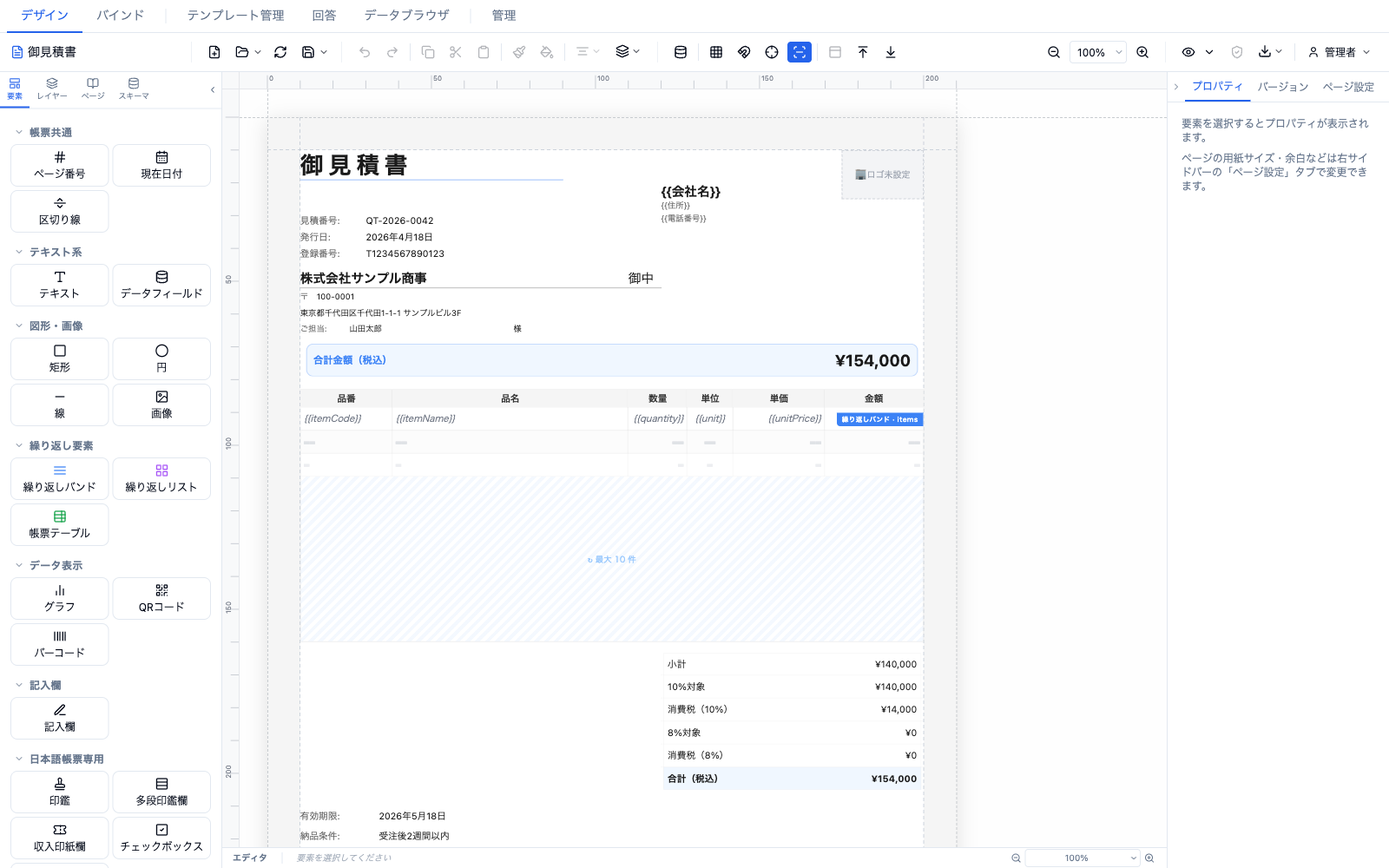
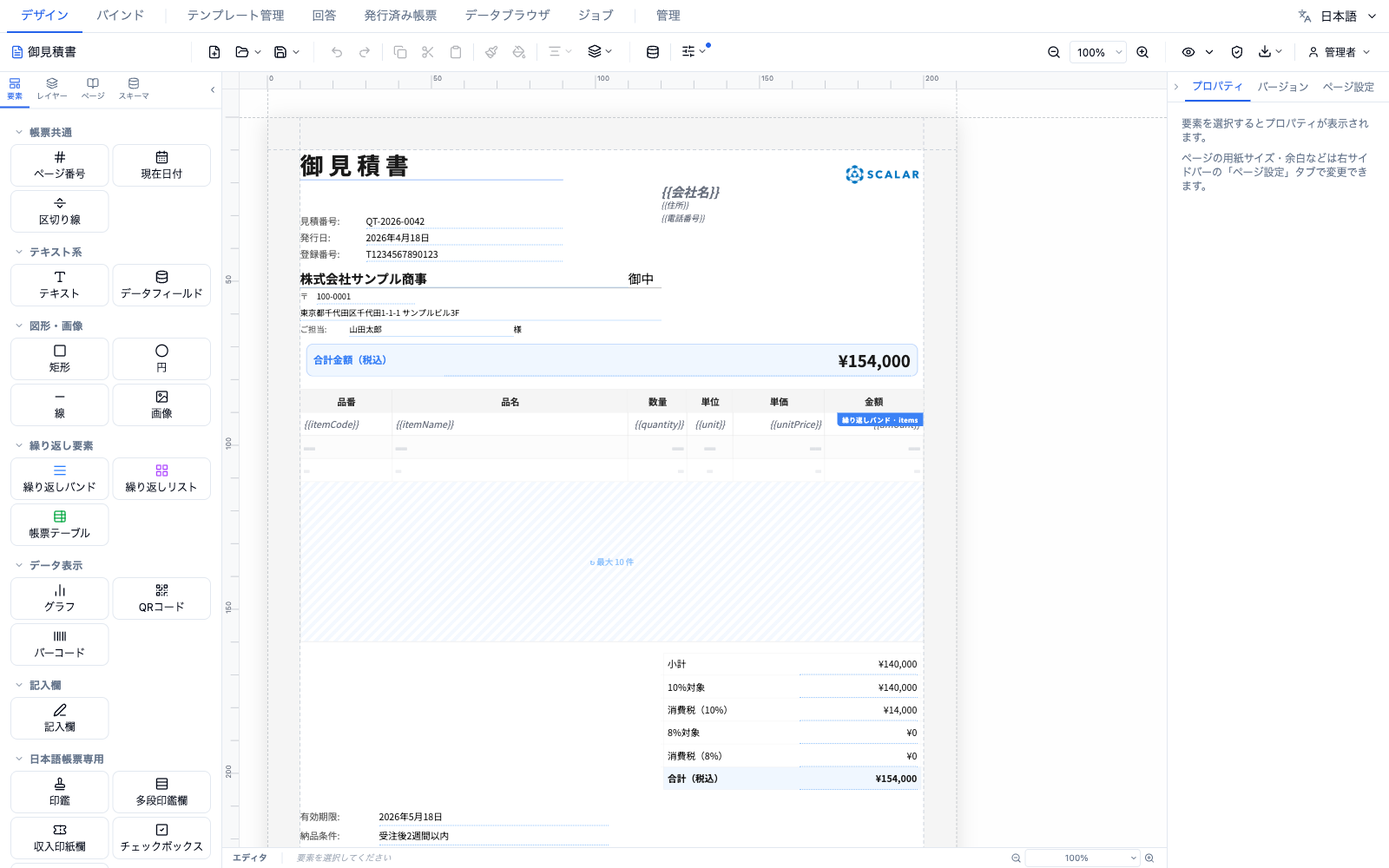
docs: v1.1.0 に合わせてドキュメントと画面ショットを最新化
テキスト
- README / docs: ScalarDB 3.19、特徴に Keycloak（OIDC）併用、CLI のエージェント向け
  コマンドとチームスキル、環境変数表（抜粋注記・OIDC/LOG 系追加）、プロジェクト構造
- user-manual: 管理タブ 6 セクション・アカウント設定・パレット分類・商品マスター列名・
  各ラベルを現行 UI に合わせて修正。#498 のツールバー表示（ドット/バッジ）を反映。
  §11 に「Keycloak（OIDC）でログインする」を新設（連携フロー・認証列・制約・SSO ログアウト）
- architecture / design / setup / observability / license-audit / security-audit /
  job-infrastructure / CLAUDE.md / scalardb.properties.example / CLI README:
  版数（ScalarDB 3.19・Tailwind 4・react-router 8・Storybook 10・logback 1.6.3）、
  14 スライス、before-filter の解決順（JWT 形は OIDC のみ・rpat_ は PAT のみ）、
  AUTH_MODE fail-closed、OIDC 経路の詳細、CI 4 ジョブ、CLI コマンド一覧、
  #502 の logback 構成、残課題の解消状況
- main から残っていたアンカー切れ 2 件を修正、AuthMode の Javadoc を fail-closed に

画面ショット（Playwright、1512×800 / README は 1600×1000）
- ツールバーが写る 01〜06・designer.png・live-preview.png を #498 後の UI で撮り直し
- walkthrough.gif を新 PNG から再生成（8 フレーム、1000px、1.5MB → 0.57MB）
- 新規: 13-login-keycloak / 14-account-link / 15-user-management（OIDC 併用時の画面）

Claude-Session: https://claude.ai/code/session_01MzdcF71BaucU7NvbkiCSD4

diff --git a/server/src/main/java/com/report/server/auth/AuthMode.java b/server/src/main/java/com/report/server/auth/AuthMode.java
@@ -14,10 +14,11 @@ import org.slf4j.LoggerFactory;
  *   <li>{@code local} — id / password only. OIDC endpoints are not registered and Keycloak Bearer
  *       tokens are ignored even if {@code OIDC_*} variables are present.
  *   <li>{@code oidc} — Keycloak only. Password login answers 403 {@code LOCAL_LOGIN_DISABLED} and
- *       the login modal hides the id / password form. Requires a complete {@code OIDC_*}
- *       configuration; otherwise the server falls back to {@code local} with an error log so nobody
- *       is locked out.
- *   <li>{@code both} — Keycloak and id / password side by side (same fallback rule).
+ *       the login modal hides the id / password form. Requires {@code OIDC_ISSUER} and {@code
+ *       OIDC_CLIENT_ID}; when either is missing {@link #resolve} throws {@link
+ *       IllegalStateException} and the server refuses to start (fail-closed) rather than silently
+ *       falling back to password login.
+ *   <li>{@code both} — Keycloak and id / password side by side (same fail-closed rule).
  * </ul>
  *
  * <p>When {@code AUTH_MODE} is unset the mode is inferred: {@code both} if {@code OIDC_ISSUER} is

diff --git a/docs/setup.md b/docs/setup.md
@@ -4,7 +4,7 @@ Report Studio を動かすための手順をまとめます。用途に応じて
 
 - **とにかく試したい** → [Docker でのクイックスタート](#docker-でのクイックスタート)（Node.js / JDK 不要）
 - **開発・改修したい** → [ローカルセットアップ](#ローカルセットアップ)
-- **本番運用したい** → [本番構成](#本番構成)＋[環境変数](#環境変数)
+- **本番運用したい** → [本番構成](#本番任意の-jdbc-データベース)＋[環境変数](#環境変数)
 
 ---
 
@@ -158,7 +158,7 @@ scalar.db.transaction_manager=jdbc
 
 `scalar.db.contact_points` を対象 DB の JDBC URL に変更し、`scalar.db.username` / `scalar.db.password` を設定します。
 
-本アプリはすべてのデータアクセスを ScalarDB（3.17）経由で行うため、接続先は **ScalarDB が対応するデータベース**に限られます。本アプリは `scalar.db.storage=jdbc`（JDBC ストレージ + JDBC トランザクションマネージャ）で構築・検証しているため、実運用で選べるのは **ScalarDB の JDBC アダプタが対応する関係データベース**です。
+本アプリはすべてのデータアクセスを ScalarDB（3.19）経由で行うため、接続先は **ScalarDB が対応するデータベース**に限られます。本アプリは `scalar.db.storage=jdbc`（JDBC ストレージ + JDBC トランザクションマネージャ）で構築・検証しているため、実運用で選べるのは **ScalarDB の JDBC アダプタが対応する関係データベース**です。
 
 | データベース | 備考 |
 |--------------|------|
@@ -191,7 +191,7 @@ scalar.db.transaction_manager=jdbc
 | `SCALARDB_PASSWORD` | （空） | 接続パスワード |
 | `SCALARDB_TX_MANAGER` | `jdbc` | トランザクションマネージャ |
 | `SCALARDB_POOL_MIN_IDLE` | `1` | JDBC 接続プール min_idle（#274。properties ファイル使用時もファイル値を上書き） |
-| `SCALARDB_POOL_MAX_IDLE` | `5` | JDBC 接続プール max_idle（同上。ScalarDB 3.18 では本プロパティは無視され警告が出ます） |
+| `SCALARDB_POOL_MAX_IDLE` | `5` | JDBC 接続プール max_idle（同上。同梱の ScalarDB 3.19 では本プロパティは無視され警告が出ます） |
 | `SCALARDB_POOL_MAX_TOTAL` | `10` | JDBC 接続プール max_total（同上） |
 
 ---
@@ -212,7 +212,7 @@ scalar.db.transaction_manager=jdbc
 | `OIDC_ADMIN_ROLE` | `report-studio-admin` | `admin` にマッピングする IdP ロール |
 | `OIDC_USER_ROLE` | （未設定） | 設定するとこのロールを持つユーザーだけがログインできる（未設定なら認証済み全員が `user`） |
 | `OIDC_ROLE_CLAIM` | `realm_access.roles` | ロール配列を読むクレームのドットパス（クライアントロールなら `resource_access.<client>.roles`） |
-| `OIDC_LINK_LOCAL_USERS` | `false` | `true` で、ローカルアカウントでログイン済みのユーザーがアカウント設定から自分の Keycloak ID を**明示的に**連携できる。ユーザー ID が一致するだけの暗黙リンクは行わない（常に `user_conflict` で拒否） |
+| `OIDC_LINK_LOCAL_USERS` | `false` | `true` で、ローカルアカウントでログイン済みのユーザーがアカウント設定から自分の Keycloak ID を**明示的に**連携できる。ユーザー ID が一致するだけの暗黙リンクは行わない（常に `account_unavailable` で拒否） |
 | `OIDC_SCOPES` | `openid profile email` | 要求するスコープ |
 | `OIDC_PROVIDER_NAME` | `Keycloak` | UI に表示する IdP 名（「〜 でログイン」ボタン、認証列、連携画面）。Entra ID / Auth0 などでも使う場合に変更 |
 | `AUTH_MODE` | `local`（`OIDC_ISSUER` 設定時は `both`） | 提供するログイン方式。`local` = ID/パスワードのみ（`OIDC_*` があっても OIDC は無効）、`oidc` = Keycloak のみ（パスワードログインは 403、モーダルのフォームも非表示）、`both` = 併用。`oidc`/`both` は `OIDC_ISSUER`・`OIDC_CLIENT_ID` が必須で、不足していると**起動に失敗**する（設定ミスで黙ってパスワードログインに戻らない）。`keycloak` は `oidc` の別名。不明な値はエラーログを出して推定値（未設定時と同じ）になる |
@@ -245,7 +245,7 @@ scalar.db.transaction_manager=jdbc
 ### 仕組み
 
 - **ブラウザ**: ログインモーダルの「Keycloak でログイン」→ `GET /api/v1/auth/oidc/login`（Authorization Code + PKCE、state/nonce を検証）→ `GET /api/v1/auth/oidc/callback` で ID トークンを JWKS で検証し、**通常の Cookie セッション**を発行します。SPA はトークンを扱いません。
-- **API / CLI**: Keycloak 発行のアクセストークンを `Authorization: Bearer <JWT>` で送ると認証されます（PAT `rpat_…` で見つからない場合に JWT として検証）。Bearer で解決できるのは**既にアカウントがあるユーザーだけ**です。アクセストークン単体ではアカウントの自動作成もローカルアカウントへの紐付けも行わないため、先に一度ブラウザで Keycloak ログイン（または下記の明示連携）を済ませてください。ID トークン（`typ: ID`）やリフレッシュトークンは Bearer として受け付けません。
+- **API / CLI**: Keycloak 発行のアクセストークンを `Authorization: Bearer <JWT>` で送ると認証されます（JWT 形状の Bearer は OIDC 検証のみに回り、PAT ストアは引きません。不透明な `rpat_…` は PAT としてのみ解決します）。Bearer で解決できるのは**既にアカウントがあるユーザーだけ**です。アクセストークン単体ではアカウントの自動作成もローカルアカウントへの紐付けも行わないため、先に一度ブラウザで Keycloak ログイン（または下記の明示連携）を済ませてください。ID トークン（`typ: ID`）やリフレッシュトークンは Bearer として受け付けません。
 - **ユーザー**: 初回ログイン時に `provider=oidc`・パスワードなしのアカウントを自動作成します（`userId` は `preferred_username`、IdP の `sub` を `externalId` として保持）。ロールは `OIDC_ROLE_CLAIM` のロール配列から `OIDC_ADMIN_ROLE` → `admin`、それ以外 → `user` にマッピングし、ログインのたびに IdP の値で更新します。Keycloak 既定の「realm roles」マッパーは `realm_access` を**アクセストークンにしか**入れないため、コールバックでは ID トークンと一緒に返るアクセストークンも検証してロール元にします（Keycloak 側で ID トークンにロールを追加する設定は不要です）。
 - **衝突と連携**: 同じ `userId` のローカルアカウントが既にある場合、Keycloak ログインは常に拒否します（`?oidc_error=account_unavailable`。ローカルのユーザー ID の存在を IdP ユーザーに知らせないため、理由はサーバログにのみ出ます）。ユーザー名が一致するだけでローカルアカウントを乗っ取れないようにするためです。既存のローカルアカウントで Keycloak も使いたい場合は `OIDC_LINK_LOCAL_USERS=true` にし、**ローカルでログインした状態で**アカウント設定の「Keycloak アカウントと連携」から連携します（`GET /api/v1/auth/oidc/login?link=1`）。連携後はパスワードと Keycloak のどちらでもログインでき、`/auth/me` の `oidcLinked` が `true` になります。
 - **ログアウト**: OIDC セッションのログアウトは Keycloak の `end_session_endpoint` へ遷移し、SSO セッションも終了します（RP-Initiated Logout）。
@@ -256,7 +256,7 @@ scalar.db.transaction_manager=jdbc
 ### 障害時の挙動
 
 - Keycloak の discovery（`/.well-known/openid-configuration`）は遅延取得で、失敗すると 30 秒間は再試行せずに即座に失敗します（`?oidc_error=provider_unavailable` / Bearer は 401）。取得中の他のリクエストも待たされません。
-- JWKS（署名鍵）は 5 分キャッシュされ、Keycloak が一時的に落ちてもキャッシュ済みの鍵で既発行トークンの検証は続きます。鍵取得のタイムアウトは 5 秒です。
+- JWKS（署名鍵）は 5 分キャッシュされ（nimbus-jose-jwt の既定値）、Keycloak が一時的に落ちてもキャッシュ済みの鍵で既発行トークンの検証は続きます。鍵取得のタイムアウト 5 秒・リトライ・障害耐性（outage tolerant）は nimbus の既定（500 ms・リトライなし）を `OidcTokenVerifier` で明示的に上書きした設定です。
 - state・nonce・セッションはプロセス内メモリに保持します。複数インスタンスで動かす場合は同一クライアントを同一インスタンスへ固定（sticky session）してください。
 
 ### Docker でローカル再現
@@ -335,7 +335,7 @@ npm run generate:schema
 
 ## CLI
 
-`scripts/cli/report-studio.mjs` は依存ゼロ（Node 18+ のグローバル `fetch` + 標準ライブラリのみ）の CLI です。GUI と同じサーバー API を叩くため、GUI と CLI を混在させたワークフローが可能です。
+`scripts/cli/report-studio.mjs` は依存ゼロ（Node のグローバル `fetch` + 標準ライブラリのみ。前提条件どおり Node 20 以上を推奨、`fetch` 内蔵の 18 でも動作）の CLI です。GUI と同じサーバー API を叩くため、GUI と CLI を混在させたワークフローが可能です。
 
 ```bash
 # 実行形式
@@ -346,27 +346,38 @@ npm run cli -- <command> [options]
 
 - グローバルオプション: `--url <base>`（既定 `$REPORT_STUDIO_URL` または `http://localhost:8080`）、`--json`（機械可読出力）、`--help`。
 - セッション Cookie は `~/.report-studio/cookies` に保存（`$REPORT_STUDIO_HOME` で変更可）。
+- 状態変更コマンドは PAT（`tokens create` → `login --token <t>` または `$REPORT_STUDIO_TOKEN`）で認証してください。CLI は Origin ヘッダを送らないため、Cookie セッションでは `/api/v1/auth/*` 以外の書き込みが CSRF チェックで 403 になります。
 
 ### コマンド一覧
 
 | カテゴリ | コマンド | 説明 |
 |---------|---------|------|
 | 認証 | `login [--user admin] [--password changeme]` | ログインしてセッションを保存 |
+| 認証 | `login --token <t>` | PAT で認証（`$REPORT_STUDIO_TOKEN` でも可。書き込みはこちら） |
 | 認証 | `whoami` | 現在のユーザー / ロールを表示 |
+| 認証 | `tokens list` / `tokens create --label <用途>` / `tokens revoke <id>` | PAT の一覧 / 発行 / 失効（#195） |
 | テンプレート | `templates list` | テンプレート一覧（id, name, visibility, updatedAt） |
-| テンプレート | `templates get <id>` | 定義 JSON を表示 |
+| テンプレート | `templates summary <id>` | 概要（ページ数・要素種別ごとの件数・スキーマ・ルール）— まずこれ |
+| テンプレート | `templates outline <id> [--page N]` | 要素一覧 TSV + 短縮ハンドル（`e1`, `e2`, …） |
+| テンプレート | `templates get <id> [--out <file>] [--force]` | 定義 JSON の全文（40 KB 超は `--force` か `--out` が必要） |
+| テンプレート | `templates create <name> [--from <id>] [--import <file>]` | 新規作成（`--from` で複製、`--import` で `.rds2.json` 読込） |
+| テンプレート | `templates edit <id> --ops <ops.json> [--dry-run] [--expect-updated-at <iso>] [--no-snapshot]` | op ベースの部分編集（既定で編集前にスナップショット） |
+| テンプレート | `templates validate <id> [--data <d.json>]` | 保存前検証（ローカル不変条件 + 検証ルール） |
+| テンプレート | `templates thumbnail <id> [--out <file.jpg>]` | サムネイル JPEG を書き出し |
+| テンプレート | `templates versions list <id>` / `versions snapshot <id>` / `versions restore <id> <vid>` | バージョン一覧 / 手動スナップショット / 復元（`edit` の undo） |
 | テンプレート | `templates export <id> [--out <file>]` | エクスポート（既定 `<id>.rds2.json`） |
 | テンプレート | `templates import <file>` | インポート |
-| テンプレート | `templates delete <id>` | 削除 |
+| テンプレート | `templates delete <id> --yes` | 削除（完全削除・取り消し不可のため `--yes` 必須） |
+| 診断 | `evaluate <id> --data <d.json>` | 計算ルールを評価（JEXL デバッグ） |
+| 診断 | `bindings resolve <id> [--keys <keys.json>]` | ScalarDB バインドを解決（部分成功は HTTP 207） |
+| 診断 | `schema list` / `schema infer --data <sample.json>` | スキーマライブラリ一覧 / サンプル JSON からスキーマ推論 |
 | 出力 | `pdf <id> [--data <data.json>] [--out <file.pdf>]` | 単票 PDF を生成しファイルに保存 |
-| 出力 | `batch <id> --csv <rows.csv> [--out <dir>] [--name <col>]` | CSV 1 行につき 1 PDF を生成（ヘッダはドット記法で入れ子に展開） |
+| 出力 | `batch <id> --csv <rows.csv> [--out <dir>] [--filename-template "{col}_{date}.pdf" \| --name <col>]` | CSV 1 行につき 1 PDF を生成（ヘッダはドット記法で入れ子に展開） |
 | 回答 | `responses list <templateId>` | 回答一覧（id, status, submittedBy, summary） |
 | 回答 | `responses status <templateId> <responseId> <draft\|issued\|sent\|void>` | 単一回答のステータス変更 |
 | 回答 | `responses set-status <templateId> <status> (--ids a,b,c \| --status-from <old>)` | 複数回答の一括ステータス変更 |
-| ジョブ | `jobs list` | ジョブ一覧（jobId, jobType, status, processed/total） |
-| ジョブ | `jobs status <jobId>` | ジョブの詳細 JSON |
-| DB | `db tables` | ScalarDB の名前空間・テーブル一覧 |
-| DB | `db rows <ns.table>` | テーブルをスキャンして行を表示 |
+| ジョブ | `jobs list` / `jobs status <jobId>` / `jobs cancel <jobId>` | ジョブ一覧（全種別）/ 詳細 / キャンセル・削除 |
+| DB | `db tables` / `db rows <ns.table>` | ScalarDB の名前空間・テーブル一覧 / テーブルをスキャンして行を表示 |
 
 詳細な使用例は `scripts/cli/README.md` を参照してください。
 
@@ -376,7 +387,11 @@ npm run cli -- <command> [options]
 
 `.github/workflows/ci.yml`（唯一のワークフロー）。トリガー: `main` への push、および全 PR。
 
-- **frontend ジョブ**: Node 22 → `npm ci` → `npm run lint` → `npm run build`（型チェック + ビルド）→ `npx vitest run --reporter=basic`。
-- **backend ジョブ**: Temurin 21 → `cp server/scalardb.properties.example server/scalardb.properties` → `./gradlew test`（JUnit + ゴールデン PDF 回帰）。失敗時はテストレポートをアーティファクトとしてアップロード。
+4 ジョブ構成（Actions は SHA ピン + `permissions: contents: read`）:
+
+- **frontend ジョブ**: Node 22 → `npm ci` → `npm run lint` → `npm run build`（型チェック + ビルド）→ `npm run typecheck:native`（TS7 native、tsconfig ごと）→ `npm audit --omit=dev --audit-level=high`（本番依存の high 以上で失敗）→ `npx vitest run --coverage --reporter=default`（カバレッジラチェット）→ `npm run build-storybook`。
+- **backend ジョブ**: Temurin 21 → `cp server/scalardb.properties.example server/scalardb.properties` → `./gradlew spotlessCheck`（google-java-format AOSP）→ `./gradlew test jacocoTestCoverageVerification`（JUnit + ゴールデン PDF 回帰 + カバレッジラチェット）。失敗時はテストレポートをアーティファクトとしてアップロード。
+- **e2e ジョブ**: Node 22 + Temurin 21 → Playwright（chromium）→ `npx playwright test`（`playwright.config.ts` がバックエンド :8080 と Vite :5173 を起動し、`admin`/`changeme` でログインするスモーク）。失敗時は Playwright レポートをアップロード。
+- **e2e-oidc ジョブ**: `quay.io/keycloak/keycloak:26.3` を `docker run` で起動（`docker/keycloak` の realm を import）→ `AUTH_MODE=both` + `OIDC_*` を環境に与えて `npx playwright test e2e/oidc.spec.ts`（`OIDC_ISSUER` 未設定時はテスト側でスキップ）。
 
 デプロイ/リリース用のワークフローは現時点で存在しません。

diff --git a/CLAUDE.md b/CLAUDE.md
@@ -14,6 +14,10 @@ npm test             # Run tests (watch mode)
 npm test -- --run    # Run tests once
 npm run test:coverage  # Coverage report (ratchet thresholds — fails on regression)
 npm run storybook    # Storybook component explorer (http://localhost:6006)
+npm run test:e2e     # Playwright E2E smoke (boots backend :8080 + Vite :5173 itself); test:e2e:ui for the UI runner
+npm run i18n:extract # i18next-parser key extraction; i18n:extract:check fails on drift (CI-style)
+npm run build:samples  # Generate the 6 sample forms (scripts/sample-forms/build.mjs); seed:samples loads them into a running backend
+npm run cli -- <cmd> # Agent/scripting CLI (scripts/cli/report-studio.mjs, see scripts/cli/README.md)
 ```
 
 Run a single test file:
@@ -21,7 +25,7 @@ Run a single test file:
 npx vitest run src/lib/dataBinding.test.ts
 ```
 
-Environment: copy `.env.example` → `.env` if needed (`VITE_API_PORT=8080` is the only variable).
+Environment: copy `.env.example` → `.env` if needed (`VITE_API_PORT=8080` is the only variable Vite reads; the commented `OIDC_*` / `AUTH_MODE` lines in `.env.example` are **backend** env vars for `npm run dev:backend`, not Vite settings).
 
 ### Backend (Java/Javalin)
 ```bash
@@ -44,20 +48,20 @@ cd server && ./gradlew installDist
 
 ### Backend architecture
 - **Framework**: Javalin 7 (Java 21)
-- **DB**: ScalarDB 3.17 + SQLite (dev) / any JDBC (prod)
+- **DB**: ScalarDB 3.19 + SQLite (dev) / any JDBC (prod)
 - **Config**: `server/scalardb.properties` (gitignored; copy from `.example`)
 - **API routes** (authoritative registration: `ApiRoutes.java`): the API was migrated to a `/api/v2` stack; the dead v1 duplicate stack (templates/schemas/versions/responses/export/pdf/thumbnail + designer-projection/export-submission) was **removed** along with its controllers, and the surviving controllers dropped their `V2` class-name prefix (e.g. `TemplateController`, `PdfController`). URL paths keep the `/api/v2` version — the version lives in the URL, not the class name. The split is now **by resource, with no duplicated routes**:
   - **v2**: `templates` and everything under it (`evaluate`, `validate`, `versions`, `responses`(+`/{rid}/status`, `/{rid}/audit`), `export`/`import`, `pdf`, `thumbnail`, `duplicate`/`copy`/`visibility`, `resolve-bindings`), `documents` (cross-template issued-documents list, #190), `schemas`(+`infer`, with `schema-library` redirecting to `schemas`), `excel`, `pdf`/`pdf-jobs`(+`batch`; `GET /pdf-jobs` unified list + `DELETE /pdf-jobs/{id}` cancel span all job types, #191), `scalardb`, `tenant`, `health`
-  - **v1 (not yet migrated — no v2 equivalent)**: `auth`(+`/tokens` PAT management, #195), `admin`, `products`, `jobs`, `webhooks`, `sequences`, `public/forms`, `binding-trees`, plus public `health`
+  - **v1 (not yet migrated — no v2 equivalent)**: `auth`(+`/tokens` PAT management, #195; +`/oidc/login`・`/oidc/callback` — AUTH_MODE が oidc/both のときのみ登録、#499), `admin`, `products`, `jobs`, `webhooks`, `sequences`, `public/forms`, `binding-trees`, plus public `health`
   - Note: the `V2` prefix marks the newer controller generation, not a stable public contract; `v1`/`v2` here is unrelated to the binding-editor "legacy vs current" UI or template version numbers shown in the UI.
 - **Key engines**: `ExpressionEngine` (JEXL sandbox), `CalculationEngine`, `ConditionEvaluator`, `ValidationEngine`
 - **PDF export**: `SectionPdfRenderer`, `FormTablePdfRenderer`, `ImagePdfRenderer`, `BarcodePdfRenderer`, `FontProvider`. `SectionRenderHelper` は facade（#276 で `PagePlanBuilder` / `BandFlowPlanner` / `SectionGeometry` / `FormDataResolver` 等の package-private collaborators へ分割、公開 API 不変）
 - **Error responses**: 全エラーは `{error, code, correlationId}` 統一形（`ApiError.respond`、#267）。`error` は人間可読・`code` は `NOT_FOUND`/`VALIDATION_ERROR`/`VERSION_CONFLICT` 等の UPPER_SNAKE。グローバル例外ハンドラは correlationId をスタックトレースと併記
 - **メッセージ言語方針（#412）**: サーバに i18n 機構はなく、人間可読の `error`/`message`（CSV 行エラー `reason` 等含む）は **ja 固定**。機械可読契約は UPPER_SNAKE のコード — 汎用 `code` に加え、CSV 行エラーは `reasonCode`（`ProductController`）、バリデーション詳細は `detailCode`（`AdminUserController`）、応答サマリの配列件数は `summaryItems`（`{key, text|count}`、`ResponsePayloadSupport`）で構造化。フロントは `serverErrors` 名前空間で code→翻訳し、未知 code は生メッセージ表示にフォールバック（`userFacingErrorMessages.ts` / `ProductCsvImportModal` / `UserManagement` / `summaryFormat.ts` 等）。サーバが**永続化する**デフォルト名（「新しいテンプレート」「 (コピー)」等）も現状 ja 固定（作成時 UI 言語に従うフロント生成分とは別、#411）。CSV/Excel **出力**のヘッダ語は「帳票言語」であり UI 言語とは別軸（現状 ja 固定・実装変更なし）
-- **Logging**: logback（#274）。`LOG_LEVEL` env でレベル、`LOG_FORMAT=json` で JSON 出力。運用パラメータも env 外部化: `SCALARDB_POOL_MIN_IDLE/MAX_IDLE/MAX_TOTAL`・`MAX_REQUEST_SIZE`・`CORS_DEV_PORT_RANGE`
+- **Logging**: logback（#274）。`LOG_LEVEL` env でレベル、`LOG_FORMAT=json` で JSON 出力（#502 で janino の `<if>` を `<define>` + `com.report.server.logging.LogFormatAppenderDefiner` に置換 — logback 1.6 で `<if>` が廃止されたため）。運用パラメータも env 外部化: `SCALARDB_POOL_MIN_IDLE/MAX_IDLE/MAX_TOTAL`・`MAX_REQUEST_SIZE`・`CORS_DEV_PORT_RANGE`
 - **Batch jobs**: `BatchPdfProcessor` via `JobController` / `JobRepository`. The V2 batch endpoint (`BatchPdfController`) accepts either `responseIds` (stored responses) or inline `rows` (DB-row-driven bulk export, #193) plus an optional `filenameTemplate` (`{documentNo}`/`{status}`/`{seq}`/`{date}`/data fields, #194)
 - **Document lifecycle (#163)**: responses carry a `status` (draft/issued/sent/void); `SequenceController.nextAndStamp` assigns a document number at submit **or** on the first draft→issued transition; `StatusAuditRepository` persists every transition (who/when/from→to) in `report_studio.status_audit`
-- **Auth**: `FormSessionManager` + `RateLimiter` (cookie sessions) + `ApiTokenController` (PAT/Bearer, table `report_studio.api_tokens`, #195); wiring in `AppWiring.java`, Bearer resolved as a fallback in the `ApiRoutes` auth before-filter
+- **Auth**: `FormSessionManager` + `RateLimiter` (cookie sessions) + `ApiTokenController` (PAT/Bearer, table `report_studio.api_tokens`, #195) + `AuthMode` (`AUTH_MODE` local/oidc/both, fail-closed: oidc/both without `OIDC_ISSUER`/`OIDC_CLIENT_ID` throws at startup) + `OidcController` (`auth/oidc/`, nimbus-jose-jwt, #499); wiring in `AppWiring.java`. `ApiRoutes.resolvePrincipal` order: cookie session → `Authorization: Bearer` where a JWT-shaped token (3 segments) goes **only** to OIDC verification and an opaque `rpat_…` goes **only** to the PAT store. OIDC accounts' PATs are capped at 7 days (`OIDC_MAX_EXPIRY_DAYS`)
 
 ## Architecture
 

diff --git a/README.en.md b/README.en.md
@@ -33,6 +33,7 @@ Log in → pick a template → edit → preview → bind → export → response
 - **Version control** — template version history and restore
 - **Form response collection** — collect responses from public forms, export to Excel/PDF
 - **Calculation & validation** — JEXL-based calculation rules and input validation
+- **Keycloak (OIDC) login** — Keycloak (OpenID Connect) login can be used alongside the built-in authentication (`AUTH_MODE`)
 
 ## Tech Stack
 
@@ -43,7 +44,7 @@ Log in → pick a template → edit → preview → bind → export → response
 | Styling | Tailwind CSS 4 + Radix UI |
 | Drag & drop | @dnd-kit/core |
 | Backend | Java 21 + Javalin 7 |
-| Database | ScalarDB 3.17 + SQLite (development) |
+| Database | ScalarDB 3.19 + SQLite (development) |
 | Testing | Vitest 4 + Playwright (frontend) / JUnit 5 (backend) |
 | Component catalog | Storybook 10 |
 
@@ -138,14 +139,37 @@ npm run test:backend                # backend tests
 cd server && ./gradlew installDist  # distribution build (server/build/install/ — same path as the Docker build)
 ```
 
+### CLI
+
+```bash
+npm run cli -- --help    # official CLI (templates, PDF output, jobs, PAT auth)
+# Agent-oriented commands: templates summary/outline (token-efficient projections),
+#   templates edit --ops (op-based edits with automatic snapshot, --dry-run),
+#   templates versions list/snapshot/restore (undo), templates delete --yes,
+#   templates create/validate/thumbnail, evaluate, bindings resolve, schema list/infer, jobs cancel
+```
+
+See [scripts/cli/README.md](scripts/cli/README.md). A Claude Code team skill for the CLI lives in [.claude/skills/report-studio/](.claude/skills/report-studio/).
+
 ## Environment Variables
+
+Excerpt of the main variables. See [docs/setup.md](docs/setup.md#環境変数) (Japanese) for the full list.
 
 | Variable | Default | Description |
 |----------|---------|-------------|
 | `ADMIN_PASSWORD` | `changeme` | Initial admin password |
 | `LOGIN_RATE_LIMIT_MAX` | `5` | Max login attempts (per IP / 5 min) |
 | `LOGIN_RATE_LIMIT_WINDOW_MS` | `300000` | Rate-limit window (ms) |
+| `OIDC_ISSUER` | _(unset)_ | Issuer URL that enables Keycloak (OIDC) login (e.g. `https://kc.example.com/realms/report-studio`). Built-in auth only if unset. See [docs/setup.md](docs/setup.md#keycloakoidcログインの併用) (Japanese) |
+| `OIDC_INTERNAL_ISSUER` | same as `OIDC_ISSUER` | URL the server uses to reach Keycloak (e.g. a Docker-internal hostname); used only for discovery / token / JWKS |
+| `OIDC_CLIENT_ID` / `OIDC_CLIENT_SECRET` | _(unset)_ | OIDC client ID / secret (no secret needed for a public client + PKCE) |
+| `OIDC_ADMIN_ROLE` | `report-studio-admin` | IdP role mapped to the `admin` role |
+| `OIDC_PROVIDER_NAME` | `Keycloak` | IdP name shown in the UI |
+| `OIDC_LINK_LOCAL_USERS` | `false` | `true` lets a user signed in with a local account explicitly link their Keycloak account from Account Settings |
+| `AUTH_MODE` | `local` (`both` when `OIDC_ISSUER` is set) | Login methods offered: `local` (ID/password only) / `oidc` (Keycloak only) / `both`. `oidc`/`both` fail at startup if `OIDC_*` is incomplete. `keycloak` is an alias of `oidc` |
 | `WEBHOOK_SECRET_KEY` | _(unset)_ | Webhook secret encryption key (32-byte Base64, e.g. `openssl rand -base64 32`). Stored in plaintext with a startup warning if unset |
+| `LOG_LEVEL` | `INFO` | Root log level (`TRACE`/`DEBUG`/`INFO`/`WARN`/`ERROR`) |
+| `LOG_FORMAT` | _(unset)_ | `json` emits one JSON object per line (structured logs); human-readable pattern otherwise |
 
 ## Documentation
 

diff --git a/docs/job-infrastructure.md b/docs/job-infrastructure.md
@@ -23,6 +23,7 @@ JobTtlReaper                  ← TTL 回収スケジューラ(60 秒周期)
 | V2 単発 PDF (`PdfJobController`) | `V2_PDF` | `/api/v2/pdf-jobs` | `data/jobs/{id}/output.pdf` | 300 秒 | 10 |
 | V2 バッチ (`BatchPdfController`) | `V2_BATCH` | `/api/v2/pdf-jobs/batch` | `data/jobs/{id}/output.zip` | 300 秒 | 10(統合時に新設) |
 
+- V2 バッチの実行は `BatchPdfOrchestrator` が担う: 同時実行上限 `MAX_ACTIVE_JOBS=10`(超過は 429)、バッチ全体のタイムアウト `BATCH_TIMEOUT_SECONDS=300`(5 分)。`responseIds`(保存済み回答)と inline `rows`(#193)の両方を受け、`filenameTemplate`(#194)は `OutputFilenameTemplate` で展開する
 - `/api/v1/jobs` は `jobType` で V1 ジョブのみを返す(V2 ジョブはストアを共有するが V1 API には現れない)。V1 の status/cancel/download も V1 ジョブ以外は 404
 - V2 の submit/status/result は**互換レイヤ**: エンドポイント・レスポンス形状・小文字ステータスは統合前と同一(submit/status/result は `PdfJobController`、バッチ submit/status/result は `BatchPdfController`)
 - **統合リスト/キャンセル(#191)**: `GET /api/v2/pdf-jobs`(`JobController.listUnified`)は**全ジョブタイプ**(V1 CSV バッチ・V2 単発・V2 バッチ)を横断して返す — 所有者スコープ(自分のジョブ + 所有者なしジョブ、admin は全件)、`jobId`/`jobType`/小文字 `status`/`total`/`completed`/`failed` 等の安定 DTO。`DELETE /api/v2/pdf-jobs/{jobId}`(`JobController.cancelUnified`)も**全タイプ横断**でキャンセル/削除する(terminal は成果物ごと削除、稼働中 V1 は協調キャンセル、稼働中 V2 は CANCELLED マーク)
@@ -63,5 +64,6 @@ JobTtlReaper                  ← TTL 回収スケジューラ(60 秒周期)
 ## テスト
 
 `JobStatusTest` / `JobRecordTest`(旧形式 JSON の後方互換)/ `JobConcurrencyLimiterTest` /
-`PdfJobControllerTest` / `V2PdfJobOwnershipTest` / `BatchPdfControllerTest` /
-`BatchPdfProcessorTest`。テストは `testsupport/InMemoryJobStore` を使用。
+`JobControllerTest` / `JobTtlReaperTest` / `PdfJobControllerTest` / `V2PdfJobOwnershipTest` /
+`BatchPdfControllerTest` / `BatchPdfProcessorTest` / `OutputFilenameTemplateTest`。
+テストは `testsupport/InMemoryJobStore` を使用。

diff --git a/docs/observability.md b/docs/observability.md
@@ -86,12 +86,17 @@ Report Studio の運用可視性（ヘルスチェック・メトリクス・ロ
 
 ## 3. 構造化ログ（現状）
 
-- **ロギング実装**（#274）: `logback-classic` 1.5 + `logstash-logback-encoder`（`server/src/main/resources/logback.xml`）。
+- **ロギング実装**（#274）: `logback-classic` 1.6.3 + `logstash-logback-encoder` 9.0（`server/src/main/resources/logback.xml`）。
   出力は標準出力（コンソールアペンダ）。
   - `LOG_LEVEL`（既定 `INFO`）: ルートログレベルを環境変数で変更（`TRACE`/`DEBUG`/`INFO`/`WARN`/`ERROR`）。
+    Bearer JWT（Keycloak アクセストークン）が 401 になる理由（署名・期限・aud・typ 等）は DEBUG でのみ出力されるため、
+    調査時は `LOG_LEVEL=DEBUG` で起動する。
   - `LOG_FORMAT=json`: 1 行 1 JSON の logstash 形式に切替（ログ集約基盤向け）。未設定時は
-    `timestamp level [thread] logger - message` の人間可読パターン。切替は logback.xml の
-    `<if>` 条件（janino を runtimeOnly 依存として追加）で実現。
+    `timestamp level [thread] logger - message` の人間可読パターン。logback 1.6 で janino スクリプトの
+    `<if condition>` が廃止されたため、切替は
+    `<define name="LOG_APPENDER" class="com.report.server.logging.LogFormatAppenderDefiner"/>` +
+    `<appender-ref ref="${LOG_APPENDER}"/>` で `JSON` / `CONSOLE` のアペンダ名を決める方式に置き換えた（#502、janino 依存は撤去）。
+    `LOG_FORMAT` はシステムプロパティ（`-DLOG_FORMAT=json`）でも指定でき、その場合は環境変数より優先される（テスト・アドホック実行向け）。
 - **監査ログ**: `AuditLog.op(...)` が `AUDIT op=... user=... ns=... table=... outcome=... correlationId=...` の
   **key=value（logfmt）形式**で出力。ログ集約基盤でのパースが可能です。
 - **相関 ID**: すべてのエラーレスポンスは統一フォーマット（#267）

diff --git a/docs/license-audit.md b/docs/license-audit.md
@@ -7,6 +7,8 @@
 
 方法: `npx license-checker --production --summary`
 
+> パッケージ数は実施日時点の集計。Dependabot 等の依存更新後は再集計する（集計値そのものは更新のたびに書き換えていない）。
+
 | ライセンス | パッケージ数 | 互換性 |
 |---|---|---|
 | MIT | 196 | ✅ |
@@ -27,10 +29,10 @@
 
 | 依存 | ライセンス | 互換性 |
 |---|---|---|
-| io.javalin:javalin 7.2.2 | Apache-2.0 | ✅ |
-| com.fasterxml.jackson.core:jackson-databind 2.22.1 | Apache-2.0 | ✅ |
-| com.scalar-labs:scalardb 3.17.3（Community Edition） | Apache-2.0 | ✅ |
-| org.xerial:sqlite-jdbc 3.53.2.0 | Apache-2.0（同梱 SQLite は Public Domain） | ✅ |
+| io.javalin:javalin 7.2.3 | Apache-2.0 | ✅ |
+| com.fasterxml.jackson.core:jackson-databind 2.22.2 | Apache-2.0 | ✅ |
+| com.scalar-labs:scalardb 3.19.0（Community Edition） | Apache-2.0 | ✅ |
+| org.xerial:sqlite-jdbc 3.53.4.0 | Apache-2.0（同梱 SQLite は Public Domain） | ✅ |
 | org.apache.pdfbox:pdfbox 3.0.8 | Apache-2.0 | ✅ |
 | com.google.zxing:core / javase 3.5.4 | Apache-2.0 | ✅ |
 | at.favre.lib:bcrypt 0.10.2 | Apache-2.0 | ✅ |
@@ -40,9 +42,10 @@
 | org.apache.poi:poi-ooxml 5.5.1 | Apache-2.0 | ✅ |
 | ch.qos.logback:logback-classic 1.6.3 | EPL-1.0 / LGPL-2.1（デュアル） | ✅（EPL 選択で利用） |
 | net.logstash.logback:logstash-logback-encoder 9.0 | Apache-2.0 | ✅ |
-| junit-jupiter 6.1.2（test） | EPL-2.0 | ✅（テストのみ、配布物に含まれない） |
+| junit-jupiter 6.1.3（test） | EPL-2.0 | ✅（テストのみ、配布物に含まれない） |
 | mockito-core 5.23.0（test） | MIT | ✅ |
-| javalin-testtools 7.2.2（test） | Apache-2.0 | ✅ |
+| javalin-testtools 7.2.3（test） | Apache-2.0 | ✅ |
+| com.fasterxml.jackson.dataformat:jackson-dataformat-yaml 2.22.2（test） | Apache-2.0 | ✅（テストのみ、配布物に含まれない） |
 
 ## 同梱フォント
 

diff --git a/docs/security-audit.md b/docs/security-audit.md
@@ -42,3 +42,17 @@
 - Webhook シークレットの平文保存 → #73 で対応
 - 認証コア（AuthController / FormSessionManager / RateLimiter）の単体テスト → #75
 - CI への `npm audit` / gitleaks 定期実行の組み込み → #71 の後続改善
+
+### その後の状況（2026-09）
+
+上記「残課題」はいずれも解消済み:
+
+- **Webhook シークレット**（#73）: `SecretCrypto`（AES-256-GCM、鍵は `WEBHOOK_SECRET_KEY`）で暗号化保存。
+- **認証コアの単体テスト**（#75）: `AuthControllerTest` / `FormSessionManagerTest` / `RateLimiterTest` に加え、
+  OIDC 導入（#499）で `AuthModeTest` / `AuthControllerOidcTest` と `auth/oidc/` 配下の
+  `OidcConfigTest` / `OidcControllerTest` / `OidcMetadataTest` / `OidcTokenVerifierTest` / `OidcUserMapperTest` を追加。
+- **CI の `npm audit`**: `ci.yml` の frontend ジョブで `npm audit --omit=dev --audit-level=high` を実行（本番依存の high 以上で失敗）。
+  gitleaks の CI 組み込みは未着手。
+- **OIDC レビューでの堅牢化**（#501、H1–H5 を修正）: 明示的なアカウント連携フロー（`/oidc/login?link=1`、ローカルセッションからのみ）、
+  state Cookie（HttpOnly / SameSite=Lax / path 限定）と保留フロー上限・`/oidc/login` の IP 単位レート制限、
+  JWKS 取得のタイムアウト / リトライ / 障害耐性の明示設定、`AUTH_MODE=oidc`/`both` の fail-closed 起動。
